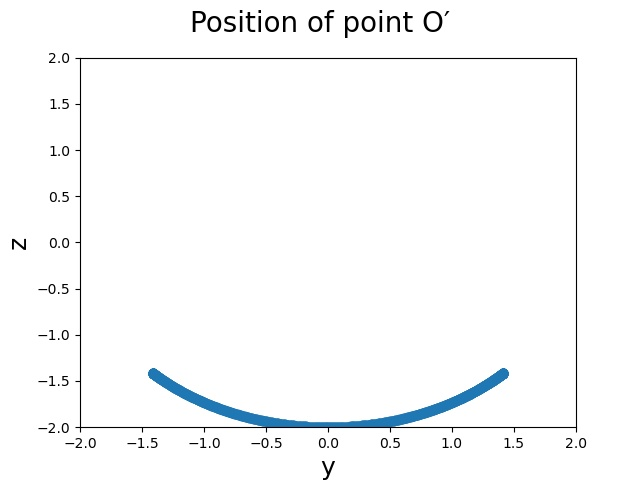
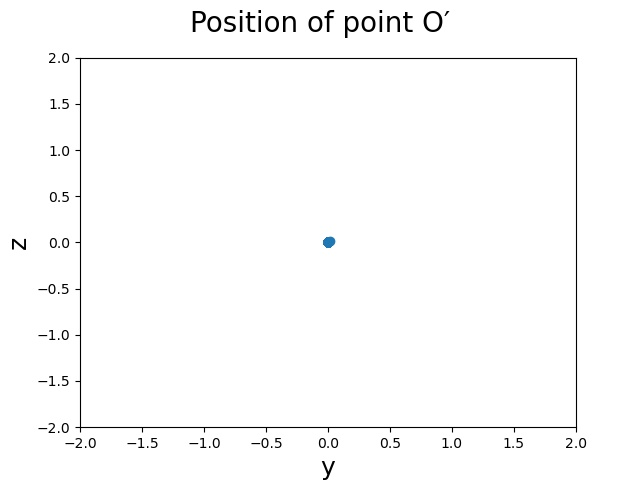
Working on kinematics analysis
-- Non-convergence in the NR-iteration

Changed region(s): [[0.2188, 0.75, 0.8125, 0.9062], [0.5, 0.4688, 0.5312, 0.5312]]

diff --git a/hw6/simEngine3D_A6P3.py b/hw6/simEngine3D_A6P3.py
@@ -1,33 +1,80 @@
 from simEngine3D_A6P2 import *
 import matplotlib.pyplot as plt
 
-y_O = [q0[1, 0]]
-z_O = [q0[2, 0]]
 
-pos_Q = A(pendulum.p) @ (-L * np.array([[1], [0], [0]]))
-y_Q = [pos_Q[1, 0]]
-z_Q = [pos_Q[2, 0]]
+def NextNewton(phi, inv_phi_q, q_k):
+    # Caller takes care of the inversion
+    return q_k - inv_phi_q @ phi
 
-qi = q0 - np.linalg.inv(g_cons.GetPhiQ(t0)) @ g_cons.GetPhi(t0 + Δt)
+
+t_start = 0
+tol = 1e-6
+t_steps = int(t_end/Δt)
+t_grid = np.linspace(t_start, t_end, t_steps, endpoint=True)
+max_iters = 500
+
+# Get arrays to hold our y and z positions
+O_pos = np.zeros((t_steps, 2))
+Q_pos = np.zeros((t_steps, 2))
+
+# Put in the initial values
+Q0 = A(pendulum.p) @ (-L * np.array([[1], [0], [0]]))
+O_pos[0, :] = q0[1:2, 0].T
+Q_pos[0, :] = Q0[1:2, 0].T
+
 pendulum.r = q0[0:3]
 pendulum.p = q0[3:]
-ti = t0 + Δt
 
-for k in range(0, int(t_end/Δt)):
-    y_O.append(qi[1, 0])
-    z_O.append(qi[2, 0])
 
-    pos_Q = A(pendulum.p) @ (-L * np.array([[1], [0], [0]]))
-    y_Q.append(pos_Q[1, 0])
-    z_Q.append(pos_Q[2, 0])
+# Set initial conditions
+q_k = q0
 
-    qi = qi - np.linalg.inv(g_cons.GetPhiQ(t0)) @ g_cons.GetPhi(ti + Δt)
-    pendulum.r = qi[0:3]
-    pendulum.p = qi[3:]
-    ti = ti + Δt
+for i, t in enumerate(t_grid):
+    if i == 0:
+        continue
+    if i > 78:
+        break
+
+    # Only get (inverse of the) Jacobian once per time step
+    inv_phi_q = np.linalg.inv(g_cons.GetPhiQ(t))
+    phi = g_cons.GetPhi(t)
+    # print('Inverse Jac: ')
+    # print(np.shape(inv_phi_q))
+    # print('Φ:')
+    # print(np.shape(phi))
+
+    # Setup and do Newton-Raphson Iteration
+    k = 0
+    q_k1 = NextNewton(phi, inv_phi_q, q_k)
+    while np.linalg.norm(q_k1 - q_k) > tol:
+        q_k = q_k1
+
+        # Trying with the bodies updated with each q_k guess
+        pendulum.r = q_k[0:3]
+        pendulum.p = q_k[3:]
+        phi = g_cons.GetPhi(t)
+
+        # Uh-oh, do we need to update the bodies as we iterate? So that phi(q, t) is updated?
+        q_k1 = NextNewton(phi, inv_phi_q, q_k)
+
+        k = k + 1
+        if k >= max_iters:
+            print('NR not converging, stopped after ' +
+                  str(max_iters) + ' iterations')
+            break
+
+        print('i: ' + str(i) + ', k: ' + str(k) +
+              ', norm: ' + str(np.linalg.norm(q_k1 - q_k)))
+
+    pendulum.r = q_k1[0:3]
+    pendulum.p = q_k1[3:]
+
+    Q_k1 = A(pendulum.p) @ (-L * np.array([[1], [0], [0]]))
+    O_pos[0, :] = q_k1[1:2, 0].T
+    Q_pos[0, :] = Q_k1[1:2, 0].T
 
 fig = plt.figure()
-plt.plot(y_O, z_O, 'o')
+plt.plot(O_pos[:, 0], O_pos[:, 1], 'o')
 fig.suptitle('Position of point O′', fontsize=20)
 axes = plt.gca()
 axes.set_xlim([-2, 2])
@@ -39,7 +86,7 @@ fig.savefig('hw6/pointO.jpg')
 plt.show()
 
 fig = plt.figure()
-plt.plot(y_Q, z_Q, 'x')
+plt.plot(Q_pos[:, 0], Q_pos[:, 1], 'x')
 fig.suptitle('Position of point Q', fontsize=20)
 axes = plt.gca()
 axes.set_xlim([-2, 2])
